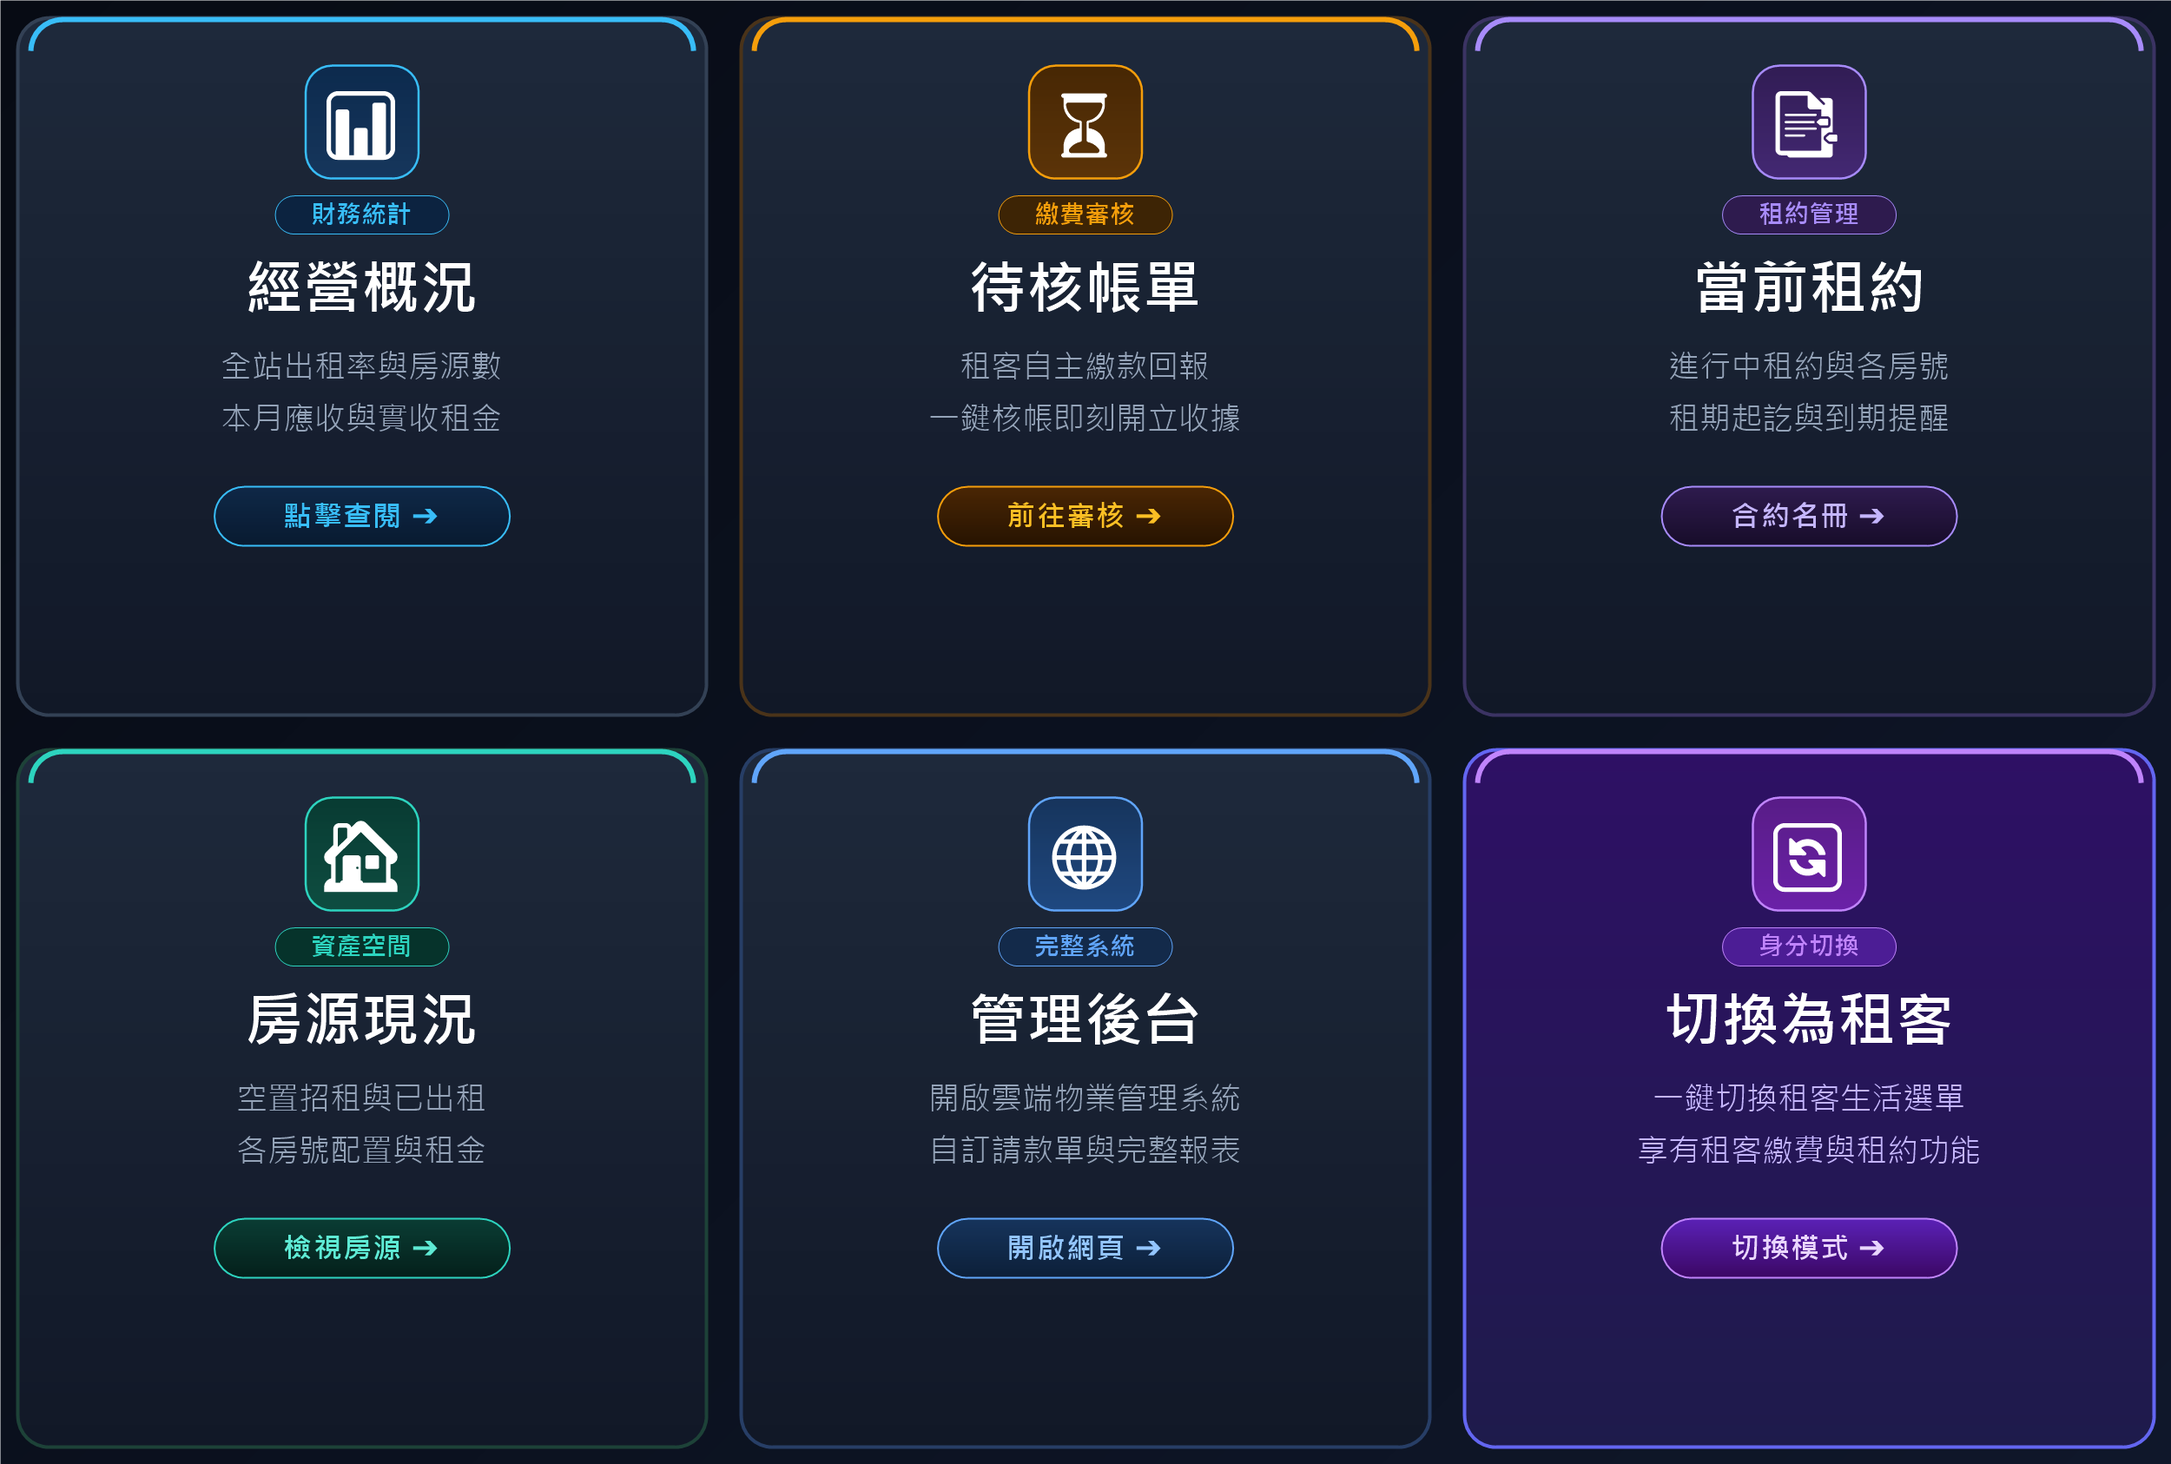
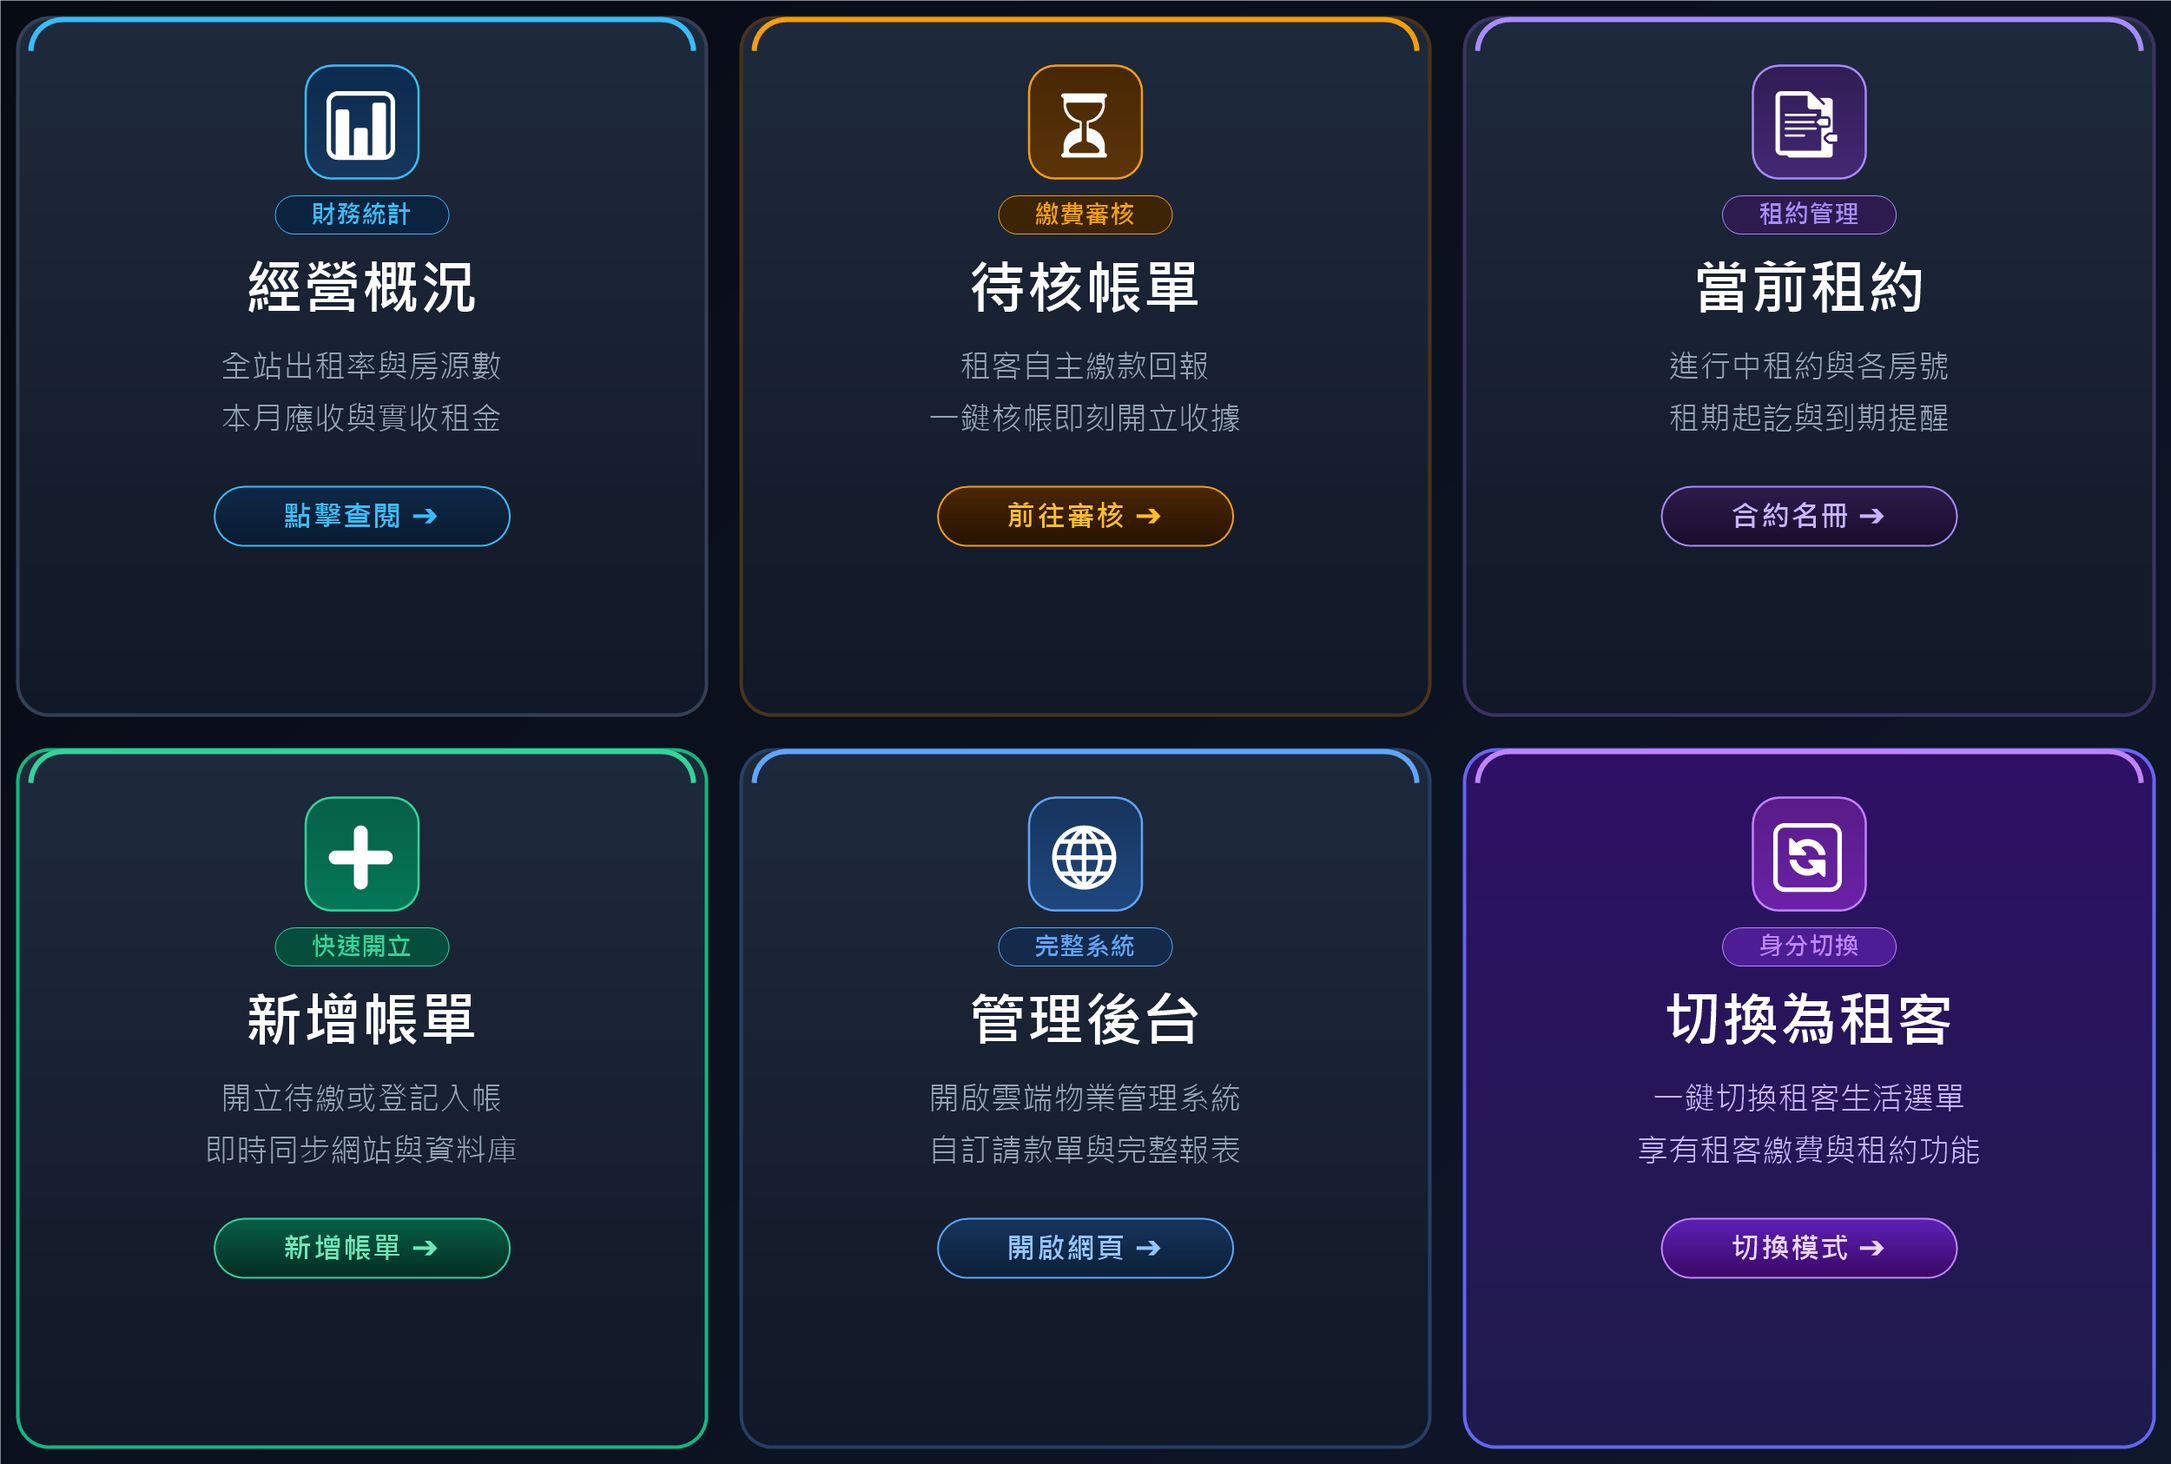
feat: update landlord menu from property status to add bill with web and database sync

diff --git a/supabase/functions/line-webhook/index.ts b/supabase/functions/line-webhook/index.ts
@@ -2326,9 +2326,9 @@ function buildUnboundGuideFlex(lineUserId = "", displayName = "") {
 // -----------------------------------------------------------------------------
 // DUAL-ROLE RICH MENU & LINE MESSAGING API CONSTANTS (3-TIER ARCHITECTURE)
 // -----------------------------------------------------------------------------
-const TENANT_STANDARD_RICH_MENU_ID = "richmenu-ba8a1c28671652a5e3cfffe0e91de3ff"; // 純租客專屬選單（第 6 格：點選發送 postback「申請成為房東」，跳出 LINE 申請導引卡片）
-const TENANT_DUAL_RICH_MENU_ID = "richmenu-1bac1fa53e9ac912b0530cda795e7bf2";     // 雙身分租客選單（第 6 格：切換為房東）
-const LANDLORD_RICH_MENU_ID = "richmenu-1f925c458c1ec02b69a389265ef6ed03";        // 房東經營選單（第 6 格：切換為租客）
+const TENANT_STANDARD_RICH_MENU_ID = "richmenu-832ce5dea034fa8a80b4528e203967af"; // 純租客專屬選單（第 6 格：點選發送 postback「申請成為房東」，跳出 LINE 申請導引卡片）
+const TENANT_DUAL_RICH_MENU_ID = "richmenu-c6cbfc55f4cb3dfcbbc1dcae94df2a1d";     // 雙身分租客選單（第 6 格：切換為房東）
+const LANDLORD_RICH_MENU_ID = "richmenu-9f99f953a3d5c9a576e4bf1d2724a51c";        // 房東經營選單（第 6 格：切換為租客）
 const LIFF_LANDLORD_APPLICATION_URL = Deno.env.get("LIFF_LANDLORD_APPLICATION_URL") || Deno.env.get("LIFF_APPLY_LANDLORD_URL") || "https://liff.line.me/2011231660-Jgip7AQv";
 
 // Helper to push message to a specific LINE User ID
@@ -2363,6 +2363,10 @@ function buildSmartQuickReply(role: string = "tenant", isLandlord: boolean = fal
   if (role === "landlord") {
     return {
       items: [
+        {
+          type: "action",
+          action: { type: "message", label: "➕ 新增帳單", text: "新增帳單" }
+        },
         {
           type: "action",
           action: { type: "message", label: "📊 經營概況", text: "經營概況" }
@@ -3495,6 +3499,193 @@ function buildLandlordTenantsFlex(leases: any[], properties: any[]) {
   return buildLandlordCurrentLeasesFlex(leases, properties);
 }
 
+// 5. 房東新增費用與帳單引導卡片 (支援直達網站兩步驟開立待繳 / 登記已繳彈窗)
+function buildLandlordAddBillFlex(leases: any[] = [], properties: any[] = [], userCtx: any = null) {
+  const cleanBase = (SITE_URL || "https://liyeh3230-art.github.io/tenant-system").replace(/\/$/, "");
+  const addBillUrl = `${cleanBase}/?action=addCustomBill&_t=${Date.now()}`;
+
+  const activeLeases = (leases || []).filter((l: any) => l.status === "active");
+
+  const leaseItems = activeLeases.slice(0, 4).map((lease: any) => {
+    const prop = (properties || []).find((p: any) => p.id === lease.property_id);
+    const propName = prop?.name || "租賃房源";
+    const tenantName = lease.tenant_name || "房客";
+    const monthlyRent = Number(lease.monthly_rent || 0).toLocaleString();
+
+    return {
+      type: "box",
+      layout: "horizontal",
+      alignItems: "center",
+      contents: [
+        {
+          type: "text",
+          text: `🏠 ${propName}`,
+          size: "xs",
+          color: "#0F172A",
+          weight: "bold",
+          flex: 5,
+          wrap: true
+        },
+        {
+          type: "text",
+          text: `${tenantName} (NT$ ${monthlyRent})`,
+          size: "xxs",
+          color: "#64748B",
+          align: "end",
+          flex: 4
+        }
+      ]
+    };
+  });
+
+  return {
+    type: "flex",
+    altText: "➕ 房東新增費用與帳單 · 快速開立待繳或登記入帳",
+    contents: {
+      type: "bubble",
+      size: "mega",
+      header: {
+        type: "box",
+        layout: "vertical",
+        backgroundColor: "#064E3B",
+        paddingAll: "18px",
+        contents: [
+          { type: "text", text: "智慧物業 · 帳單與收據作業", color: "#6EE7B7", size: "xs", weight: "bold" },
+          { type: "text", text: "➕ 新增費用與帳單", color: "#FFFFFF", size: "xl", weight: "bold", margin: "xs" },
+          { type: "text", text: "開立待繳帳單向租客請款，或直接登記已收款項", color: "#A7F3D0", size: "xs", margin: "xs" }
+        ]
+      },
+      body: {
+        type: "box",
+        layout: "vertical",
+        paddingAll: "18px",
+        spacing: "md",
+        contents: [
+          {
+            type: "box",
+            layout: "vertical",
+            backgroundColor: "#F8FAFC",
+            cornerRadius: "12px",
+            borderColor: "#E2E8F0",
+            borderWidth: "1px",
+            paddingAll: "12px",
+            spacing: "sm",
+            contents: [
+              {
+                type: "box",
+                layout: "horizontal",
+                spacing: "sm",
+                contents: [
+                  { type: "text", text: "⏳", size: "sm", flex: 0 },
+                  {
+                    type: "box",
+                    layout: "vertical",
+                    flex: 1,
+                    contents: [
+                      { type: "text", text: "開立待繳帳單 (向租客請款)", size: "xs", weight: "bold", color: "#1E293B" },
+                      { type: "text", text: "新增應繳租金/水電/押金，系統自動發送 LINE 帳單通知提醒租客", size: "xxs", color: "#64748B", wrap: true }
+                    ]
+                  }
+                ]
+              },
+              { type: "separator", color: "#E2E8F0" },
+              {
+                type: "box",
+                layout: "horizontal",
+                spacing: "sm",
+                contents: [
+                  { type: "text", text: "💵", size: "sm", flex: 0 },
+                  {
+                    type: "box",
+                    layout: "vertical",
+                    flex: 1,
+                    contents: [
+                      { type: "text", text: "登記已收款項 (直接入帳開立收據)", size: "xs", weight: "bold", color: "#065F46" },
+                      { type: "text", text: "已收現金交付或轉帳款項，即時建立已繳紀錄、計入財務營收並推播收據", size: "xxs", color: "#64748B", wrap: true }
+                    ]
+                  }
+                ]
+              }
+            ]
+          },
+          activeLeases.length > 0 ? {
+            type: "box",
+            layout: "vertical",
+            backgroundColor: "#F0FDF4",
+            cornerRadius: "10px",
+            borderColor: "#BBF7D0",
+            borderWidth: "1px",
+            paddingAll: "10px",
+            spacing: "xs",
+            contents: [
+              {
+                type: "box",
+                layout: "horizontal",
+                contents: [
+                  { type: "text", text: "可開立房源與租客", size: "xxs", weight: "bold", color: "#166534" },
+                  { type: "text", text: `共 ${activeLeases.length} 間在約中`, size: "xxs", color: "#15803D", align: "end" }
+                ]
+              },
+              { type: "separator", color: "#DCFCE7", margin: "xs" },
+              ...leaseItems
+            ]
+          } : {
+            type: "box",
+            layout: "vertical",
+            backgroundColor: "#FFFBEB",
+            cornerRadius: "10px",
+            borderColor: "#FDE68A",
+            borderWidth: "1px",
+            paddingAll: "10px",
+            contents: [
+              { type: "text", text: "⚠ 目前尚無在約中的租約紀錄，請先至租約管理登錄合約！", size: "xs", color: "#B45309", wrap: true }
+            ]
+          }
+        ]
+      },
+      footer: {
+        type: "box",
+        layout: "vertical",
+        spacing: "sm",
+        paddingAll: "16px",
+        contents: [
+          {
+            type: "button",
+            style: "primary",
+            color: "#059669",
+            height: "md",
+            action: {
+              type: "uri",
+              label: "➕ 前往網頁開立帳單",
+              uri: addBillUrl
+            }
+          },
+          {
+            type: "box",
+            layout: "horizontal",
+            spacing: "sm",
+            contents: [
+              {
+                type: "button",
+                style: "secondary",
+                height: "sm",
+                action: { type: "message", label: "⏳ 待核帳單", text: "待核帳單" }
+              },
+              {
+                type: "button",
+                style: "secondary",
+                height: "sm",
+                action: { type: "message", label: "📊 經營概況", text: "經營概況" }
+              }
+            ]
+          }
+        ]
+      }
+    },
+    quickReply: buildSmartQuickReply("landlord", true)
+  };
+}
+
 // -----------------------------------------------------------------------------
 // DUAL-ROLE STRICT USER CONTEXT FETCHER (ZERO LEAKAGE / STRICT AUTH)
 // -----------------------------------------------------------------------------
@@ -4483,8 +4674,8 @@ serve(async (req: Request) => {
         }
 
         // 3. 房東功能分支 (嚴格限房東身分，非房東直接拒絕)
-        const isLandlordCommand = /^(經營概況|概況|統計|儀表板|待核帳單|待核|審核|核帳|當前租約|房源現況|房源|房間|物業|租客名冊|名冊|房客|名單)$/.test(text) ||
-          text.includes("經營") || text.includes("待核") || text.includes("當前租約") || text.includes("名冊");
+        const isLandlordCommand = /^(經營概況|概況|統計|儀表板|待核帳單|待核|審核|核帳|當前租約|房源現況|房源|房間|物業|租客名冊|名冊|房客|名單|新增帳單|開立帳單|新增費用|開立待繳|登記已繳|開帳單|請款)$/.test(text) ||
+          text.includes("經營") || text.includes("待核") || text.includes("當前租約") || text.includes("名冊") || text.includes("新增帳單") || text.includes("開立帳單") || text.includes("新增費用") || text.includes("開立待繳") || text.includes("登記已繳");
 
         if (isLandlordCommand && !userCtx.isLandlord) {
           await replyLineMessage(replyToken, [
@@ -4565,7 +4756,7 @@ serve(async (req: Request) => {
             text.includes("房源") || text.includes("房間") || text.includes("物業") ||
             text.includes("名冊") || text.includes("房客") || text.includes("名單") ||
             text.includes("已繳") || text.includes("收據") ||
-            text === "3" || text === "4"
+            text === "3"
           ) {
             const leases = userCtx.landlordManagedLeases;
             if ((text.includes("已繳") || text.includes("收據")) && leases.length === 1) {
@@ -4602,6 +4793,20 @@ serve(async (req: Request) => {
                 userCtx.landlordProperties,
                 paidRentPayments
               )
+            ]);
+            continue;
+          }
+
+          // 3.4 新增帳單 (開立待繳請款 / 登記已收費用，直達網站與雲端資料庫)
+          if (
+            text.includes("新增帳單") || text.includes("開立帳單") || text.includes("新增費用") ||
+            text.includes("開立待繳") || text.includes("登記已繳") || text.includes("開帳單") ||
+            text.includes("請款") || text === "4"
+          ) {
+            const leases = userCtx.landlordManagedLeases || [];
+            const properties = userCtx.landlordProperties || [];
+            await replyLineMessage(replyToken, [
+              buildLandlordAddBillFlex(leases, properties, userCtx)
             ]);
             continue;
           }

diff --git a/src/App.jsx b/src/App.jsx
@@ -226,6 +226,18 @@ export default function App() {
     roleRef.current = role;
   }, [role]);
 
+  const pendingOpenCustomBillRef = useRef(false);
+  useEffect(() => {
+    if (typeof window === 'undefined') return;
+    const searchParams = new URLSearchParams(window.location.search);
+    const action = searchParams.get('action') || searchParams.get('mode') || searchParams.get('open');
+    if (action === 'addCustomBill' || action === 'add_bill' || action === 'create_bill' || action === 'new_bill') {
+      pendingOpenCustomBillRef.current = true;
+      setRole(prev => (prev === 'superadmin' ? 'superadmin' : 'admin'));
+      setActiveTab('dashboard');
+    }
+  }, []);
+
   const [activeTab, setActiveTab] = useState(() => {
     try {
       const saved = typeof localStorage !== 'undefined' ? localStorage.getItem('app_auth_session') : null;
@@ -5229,13 +5241,13 @@ export default function App() {
     setActiveModal('viewReceipt');
   };
 
-  const handleOpenAddCustomBill = () => {
-    const activeLeases = leases.filter(l => landlordPropertyIds.includes(l.propertyId) && l.status === 'active');
+  const handleOpenAddCustomBill = (targetLeaseId = null) => {
+    const activeLeases = leases.filter(l => (landlordPropertyIds.length === 0 || landlordPropertyIds.includes(l.propertyId)) && l.status === 'active');
     if (activeLeases.length === 0) {
-      showToast('目前尚無有效租約可開立帳單！', 'warning');
+      showToast('目前尚無有效租約可開立帳單！請先在「租約管理」登錄合約。', 'warning');
       return;
     }
-    const firstLease = activeLeases[0];
+    const firstLease = (targetLeaseId && activeLeases.find(l => l.id === targetLeaseId)) || activeLeases[0];
     setCustomBillLeaseId(firstLease.id);
     setCustomBillCategory('rent');
     setCustomBillTitle('');
@@ -5253,6 +5265,17 @@ export default function App() {
     setCustomBillNote('');
     setActiveModal('addCustomBill');
   };
+
+  // 監聽是否有待開啟之新增帳單彈窗 (來自 LINE 富選單或外部 URL deep link)
+  useEffect(() => {
+    if (pendingOpenCustomBillRef.current && leases && leases.length > 0) {
+      const activeLeases = leases.filter(l => (landlordPropertyIds.length === 0 || landlordPropertyIds.includes(l.propertyId)) && l.status === 'active');
+      if (activeLeases.length > 0) {
+        pendingOpenCustomBillRef.current = false;
+        handleOpenAddCustomBill();
+      }
+    }
+  }, [leases, landlordPropertyIds]);
 
   const handleSelectCustomBillMode = (mode) => {
     setCustomBillPaymentType(mode);
@@ -7536,8 +7559,8 @@ export default function App() {
                         className="bg-indigo-600 hover:bg-indigo-700 text-white px-2.5 sm:px-4 py-2 sm:py-2.5 rounded-xl text-xs sm:text-sm font-semibold transition-colors flex items-center justify-center shadow-xs whitespace-nowrap"
                       >
                         <Plus size={15} className="mr-1 sm:mr-1.5 flex-shrink-0" />
-                        <span className="hidden sm:inline">登記帳單/已繳紀錄</span>
-                        <span className="sm:hidden">登記新帳單</span>
+                        <span className="hidden sm:inline">新增帳單 / 繳費紀錄</span>
+                        <span className="sm:hidden">新增帳單</span>
                       </button>
                     </div>
                   </div>
